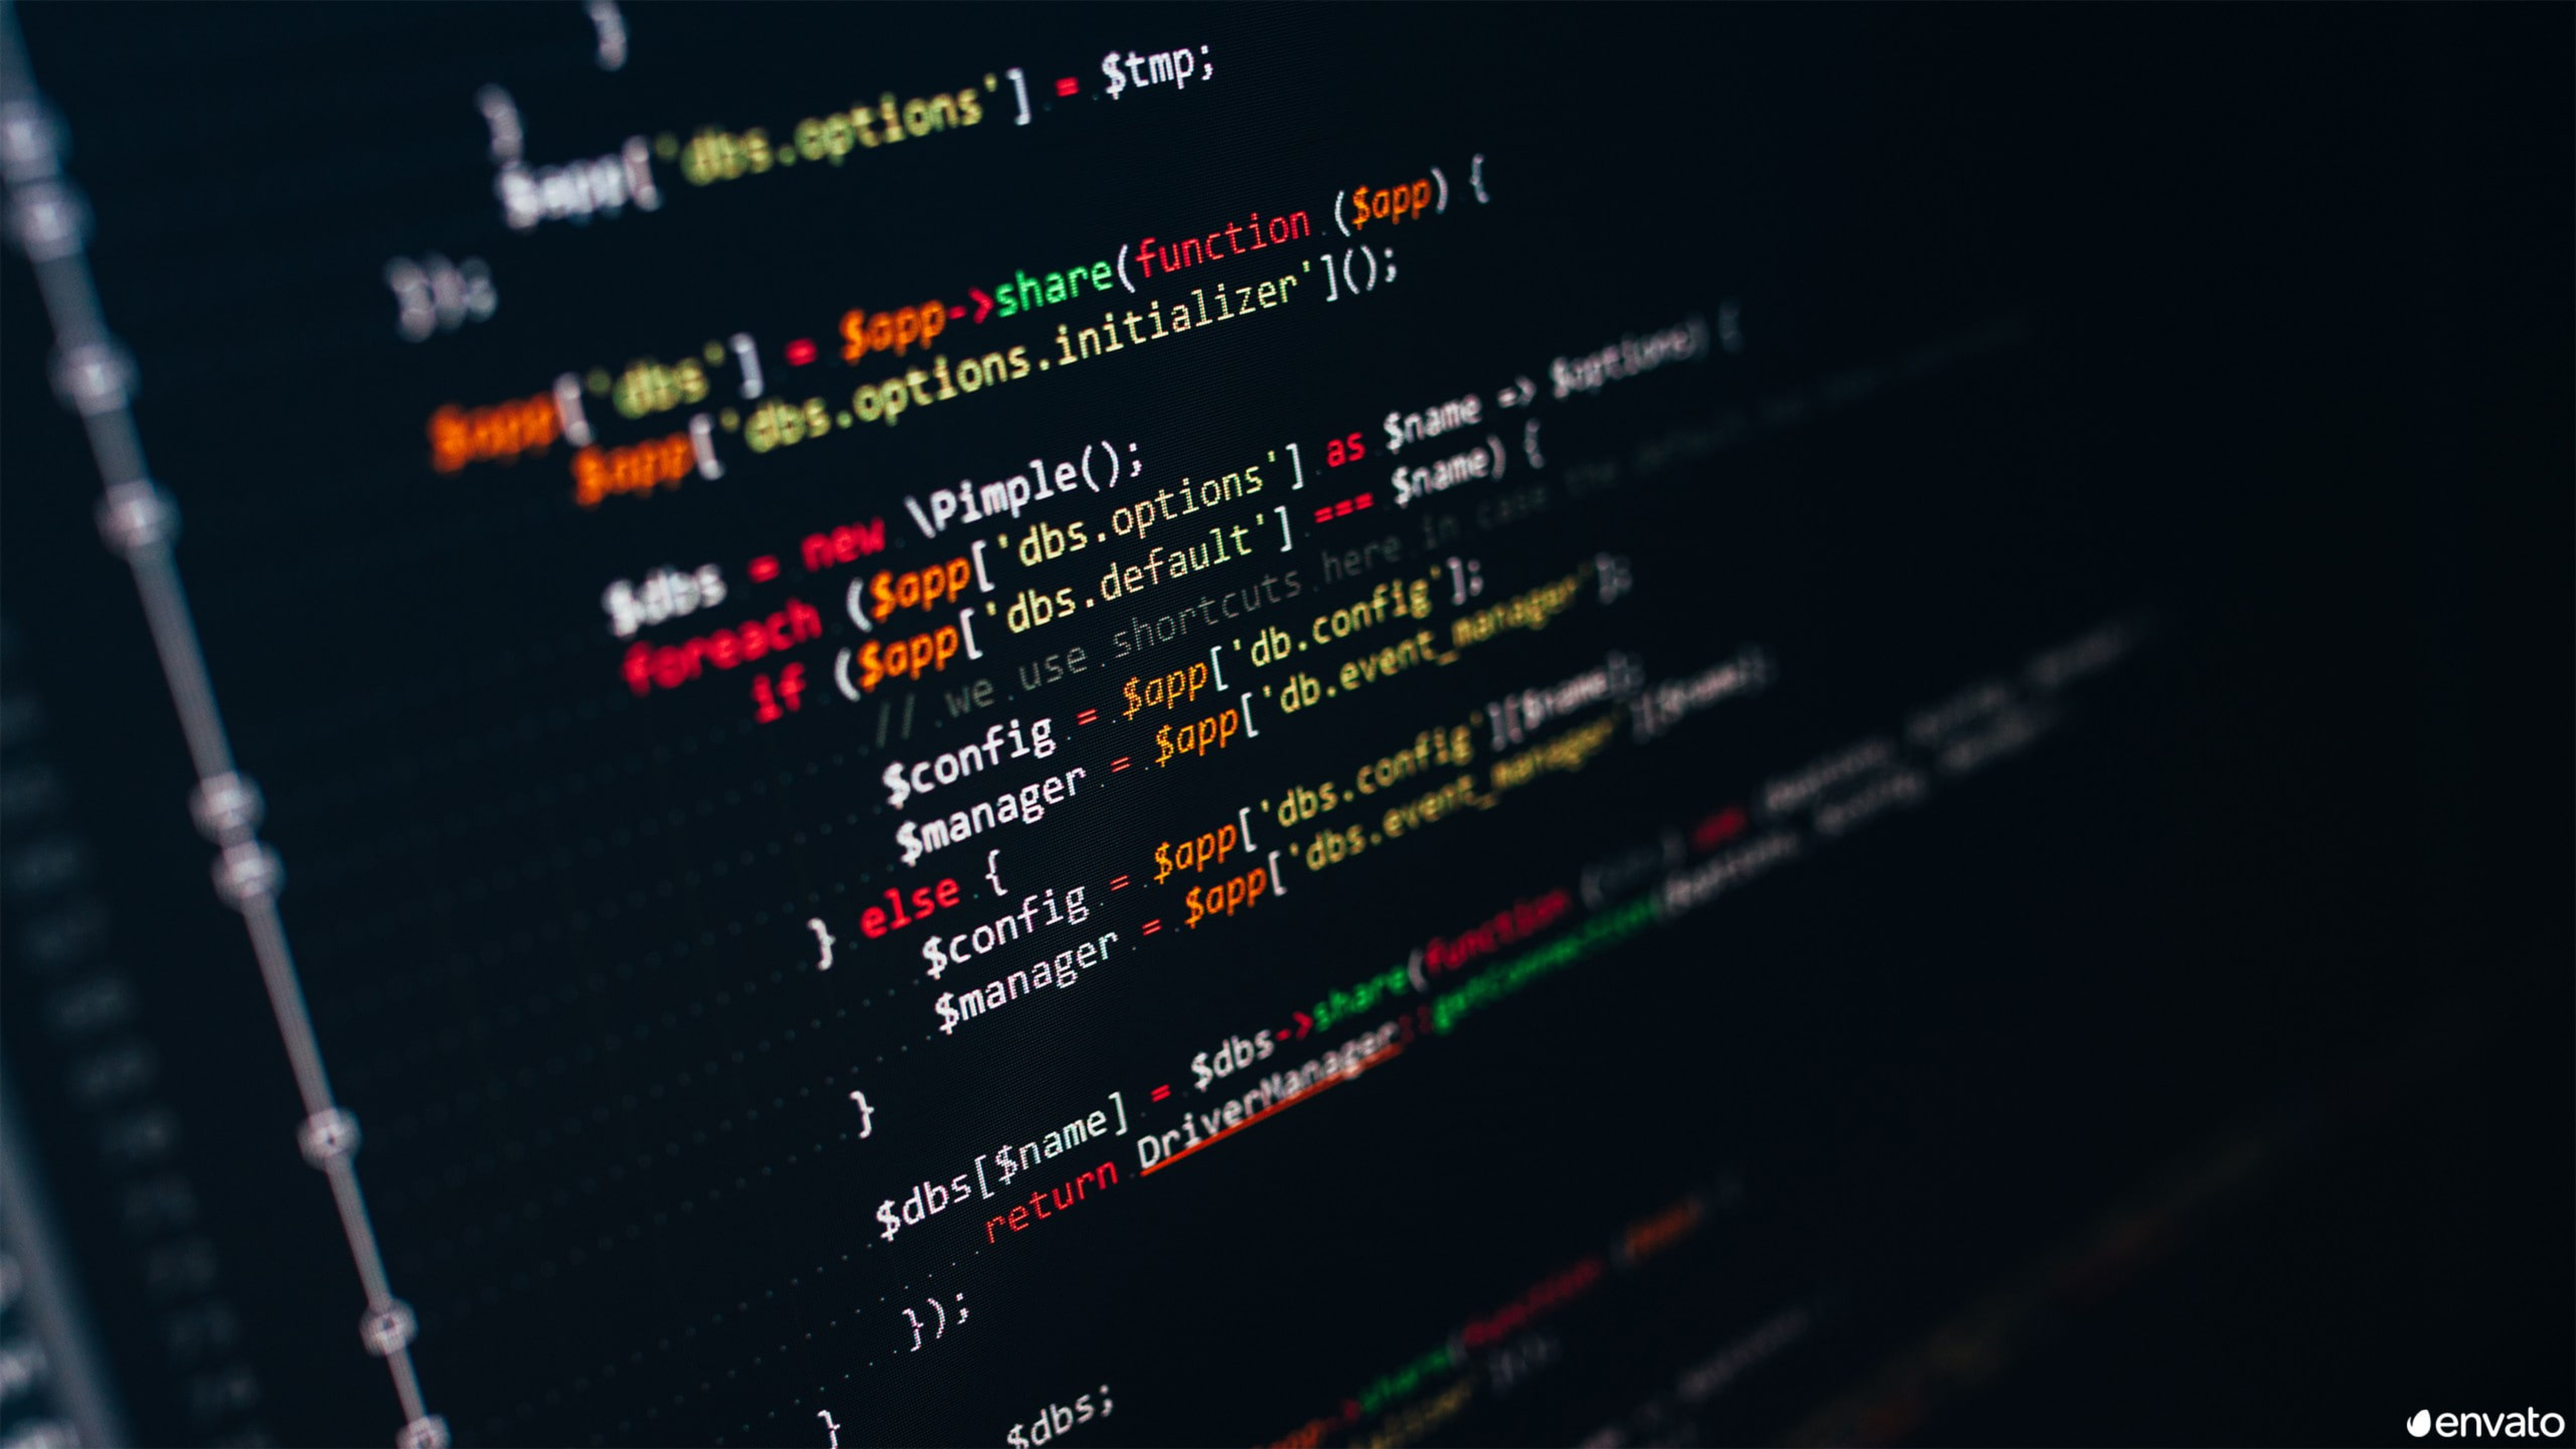
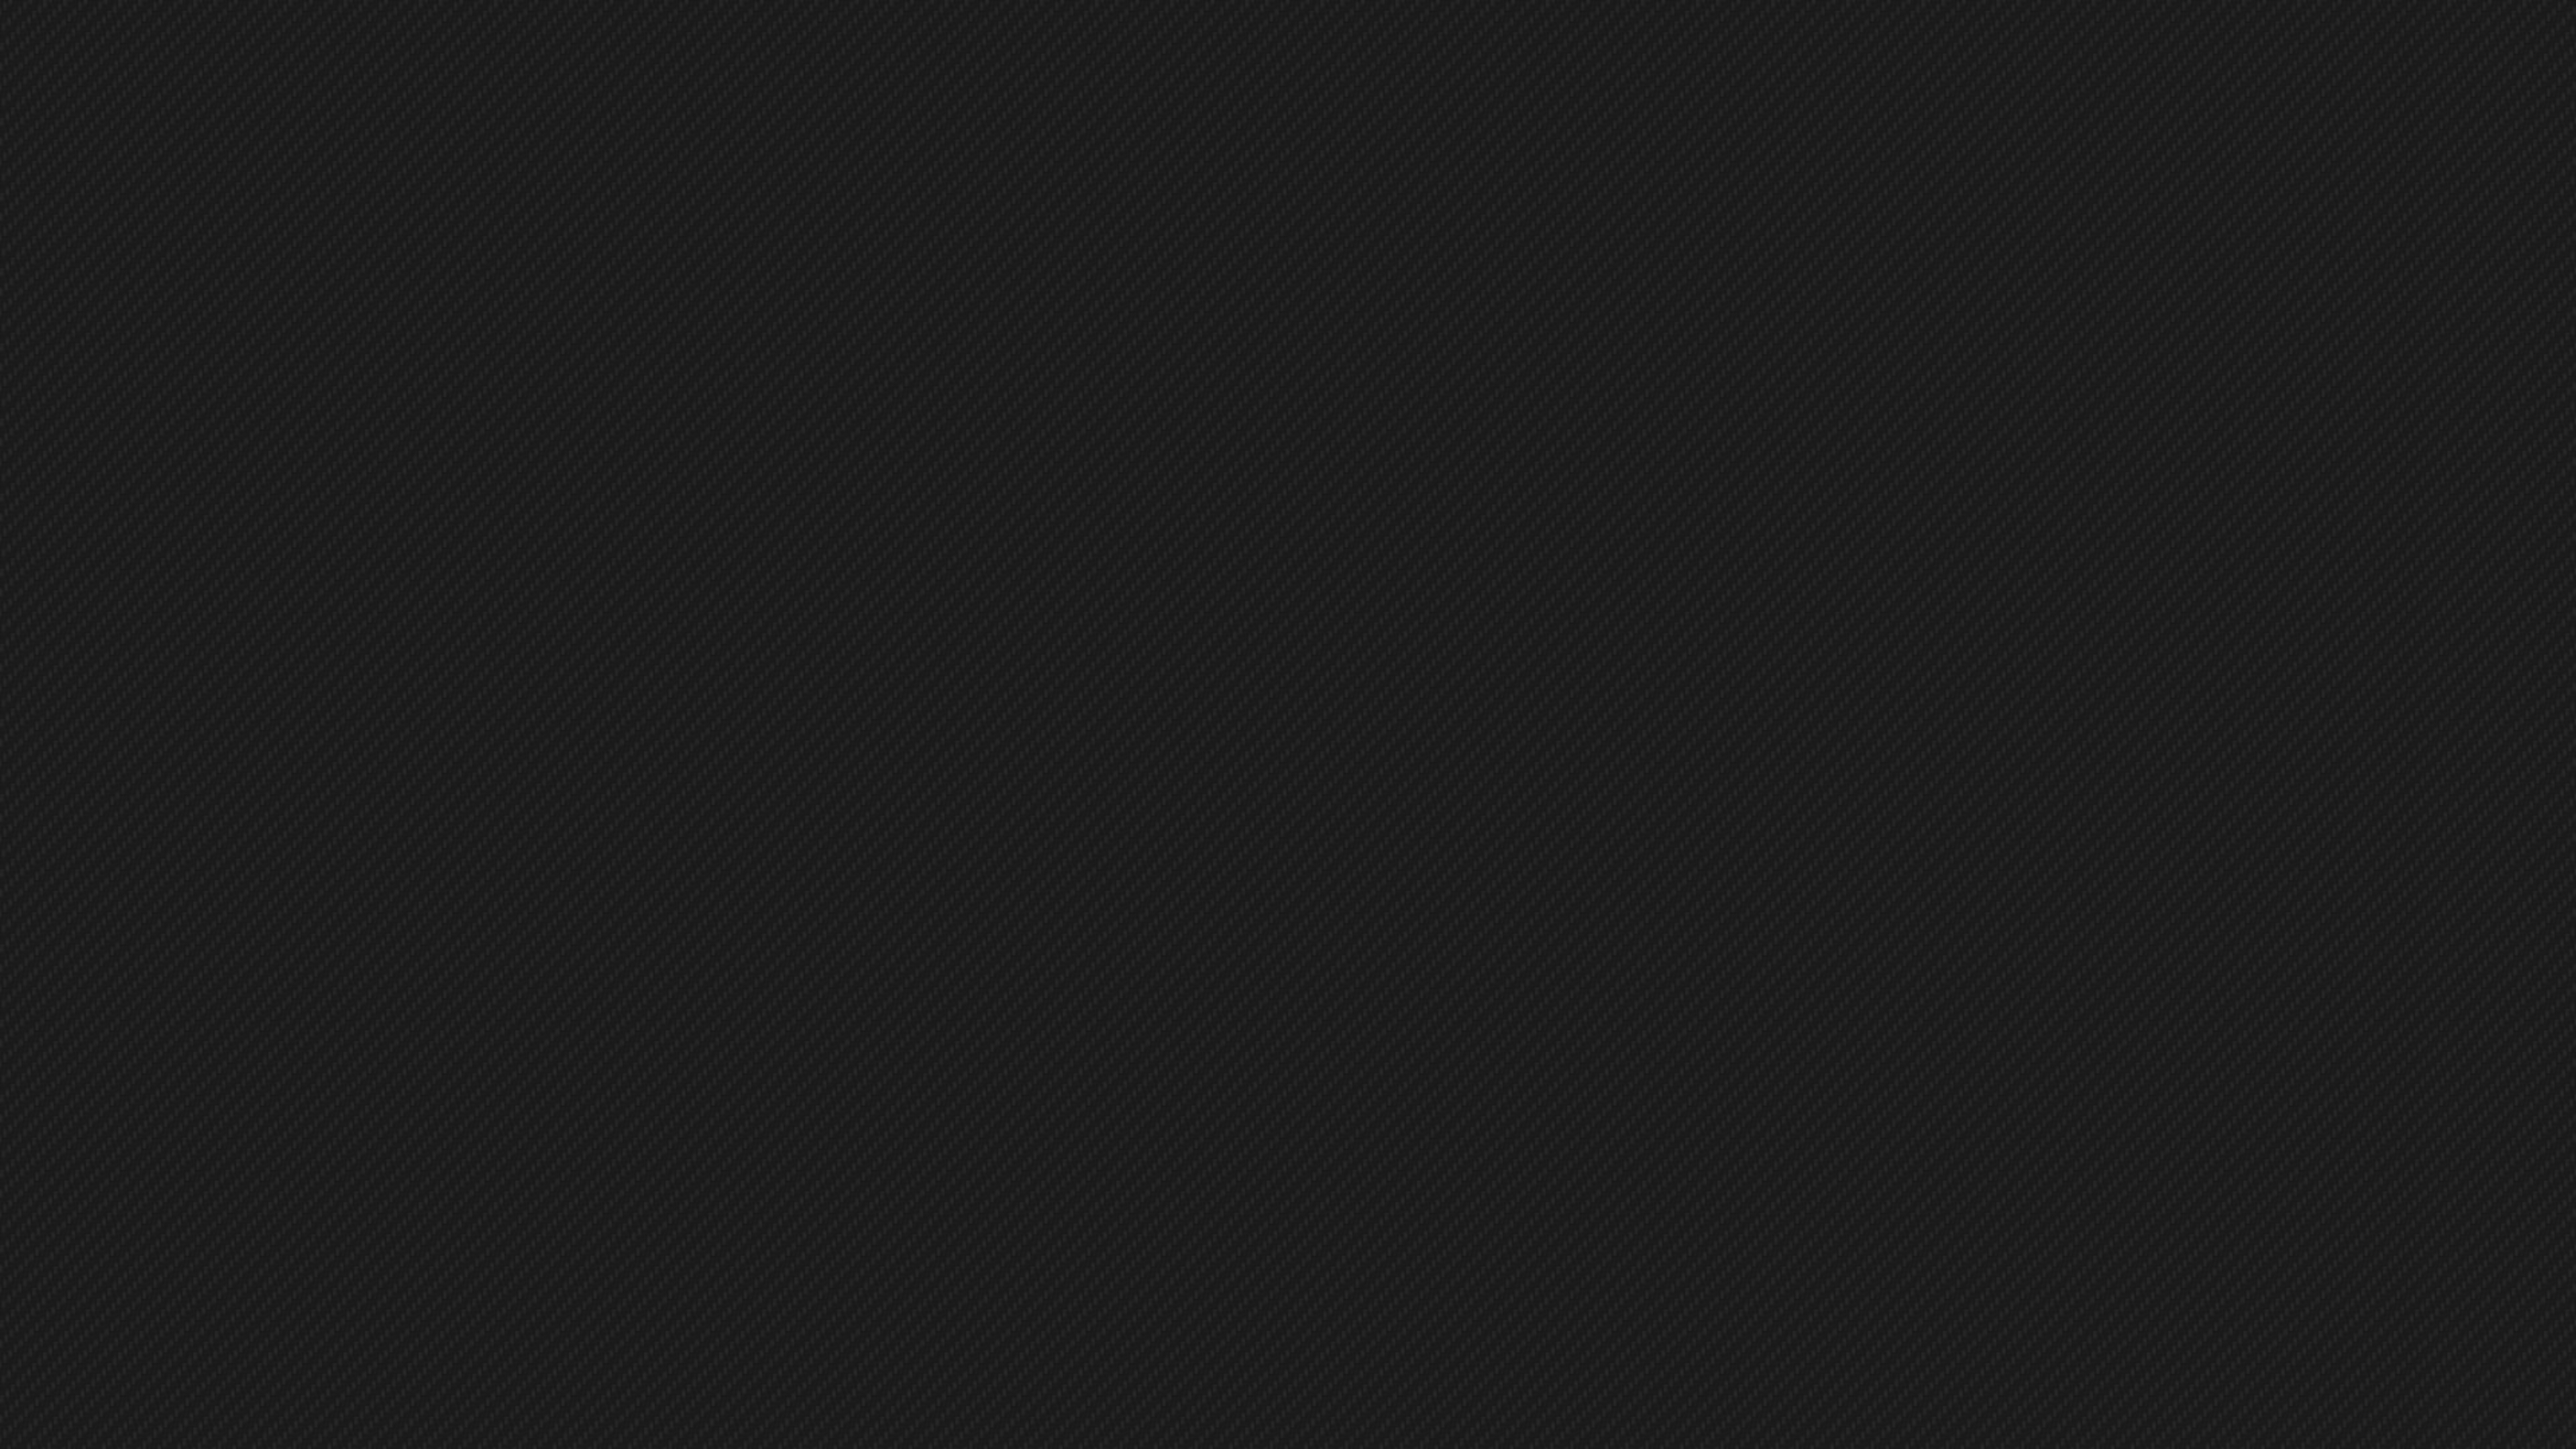
Segunda version grid Boostrap

diff --git a/css/style.css b/css/style.css
@@ -12,10 +12,8 @@ html{
 body{
     
     font-family: 'Ubuntu', sans-serif;
-    background-image: url(../img/body/wallpaperbetter.com_2560x1440.jpg);  
-    background-repeat: no-repeat;
-    background-size: auto;
-    width: 100%;
+    background-image: url(../img/body/wallpaperbetter.com_3840x2160.jpg);
+    background-size:cover;
     height: 100%;
 
 
@@ -78,12 +76,16 @@ nav{
 
 .par1{
     color: aliceblue;
+    font-size: 20px;
+    font-weight: bold;
     text-align: center;
     
     
 }
 .par2{
     display: flex;
+    font-size: 20px;
+    font-weight: bold;
     text-align: center;
     color: aliceblue;
 }
@@ -111,6 +113,8 @@ nav{
 .main_jobs p{
     text-align:center;
     align-items: center;
+    font-size: 15px;
+    font-weight: bold;
     color: aliceblue;
 
 }
@@ -146,15 +150,20 @@ nav{
     
     
 }
+#serv_row{
+    display: flex;
+}
 #col_serv img{
     margin-bottom: 1rem;
     width: 100px;
 }
 
 #col_serv{
-    border: 1px solid  aliceblue;
-    background-color: black;
+    border: 1px solid aliceblue;
+    background-color: rgb(0, 0, 0);
     color: aliceblue;
+    font-size: 20px;
+    font-weight: bold;
 }
 
 #col_serv h2{
@@ -188,6 +197,7 @@ nav{
     flex-direction: column;
     justify-content: center;
     align-items: center;
+    margin: 2rem;
     
 }
 .nosotros_titulo{
@@ -201,6 +211,8 @@ nav{
 }
 .nosotros_parrafo{
     display: flex;
+    font-size: 20px;
+    font-weight: bold;
     justify-content: center;
     color: aliceblue;
 }
@@ -214,9 +226,14 @@ nav{
     margin-top: 1rem;
     color: aliceblue;
 }
+#testi_row{
+    display: flex;
+}
 #test_col{
     display: flex;
     color: aliceblue;
+    font-size: 15px;
+    font-weight: bold;
     gap: 1rem;
     margin-bottom: 1rem;
     
@@ -358,7 +375,10 @@ margin-bottom: 1rem;
     .testimonio_titulo{
         justify-content: center;
     }
-    .main_servicios{
+    #serv_row{
+        flex-direction: column;
+    }
+    #testi_row{
         flex-direction: column;
     }
 }

diff --git a/html/nosotros.html b/html/nosotros.html
@@ -69,7 +69,7 @@
               <h2>TESTIMONIO DE CLIENTES</h2>
             </div>
           </div>
-          <div class="row">
+          <div id="testi_row" class="row">
             <div id="test_col" class="col">
               <p>Lorem ipsum dolor sit amet consectetur, adipisicing elit. A, est? Laborum perspiciatis quod sapiente esse porro, consectetur magni ad quasi vero. Vitae facilis in quam itaque tempore inventore, optio consectetur adipisci maiores eum quo eaque cumque suscipit. Optio sint cupiditate at odio tempora ipsum! In ducimus necessitatibus ipsam nisi adipisci.</p>
             </div>

diff --git a/html/servicios.html b/html/servicios.html
@@ -58,7 +58,7 @@
       </header>
       <main class="main_servicios">
         <div class="container">
-          <div class="row">
+          <div id="serv_row" class="row">
             <div  id="col_serv" class="col">
               <img src="../img/servicios/iphone.png"></th>
               <h2>DISEÑO WEB Y MOVIL</h2>
